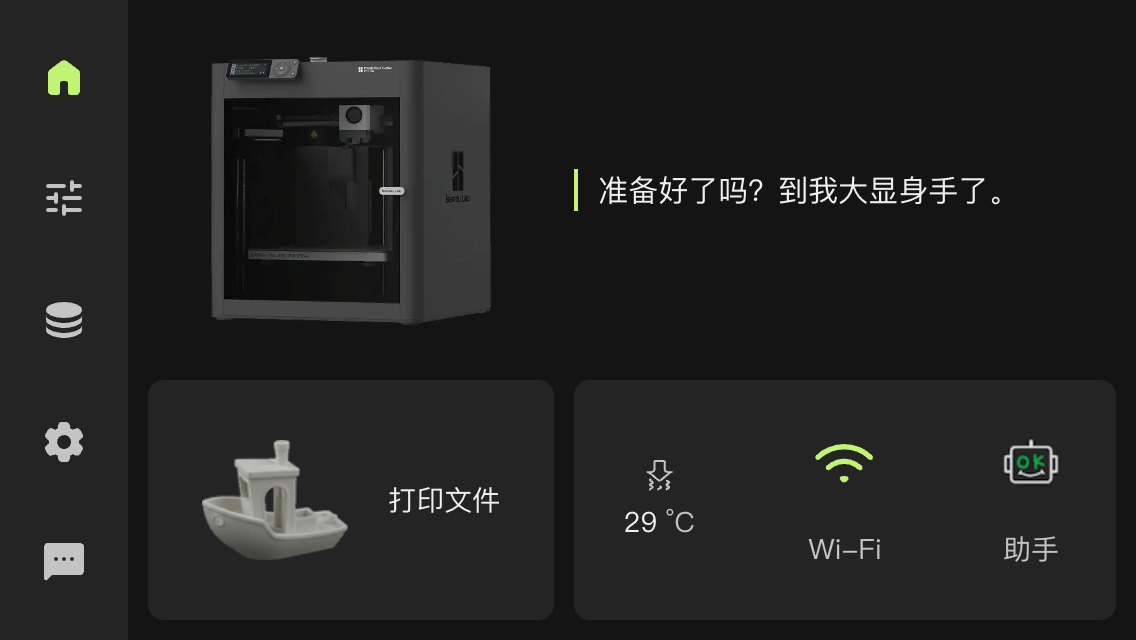
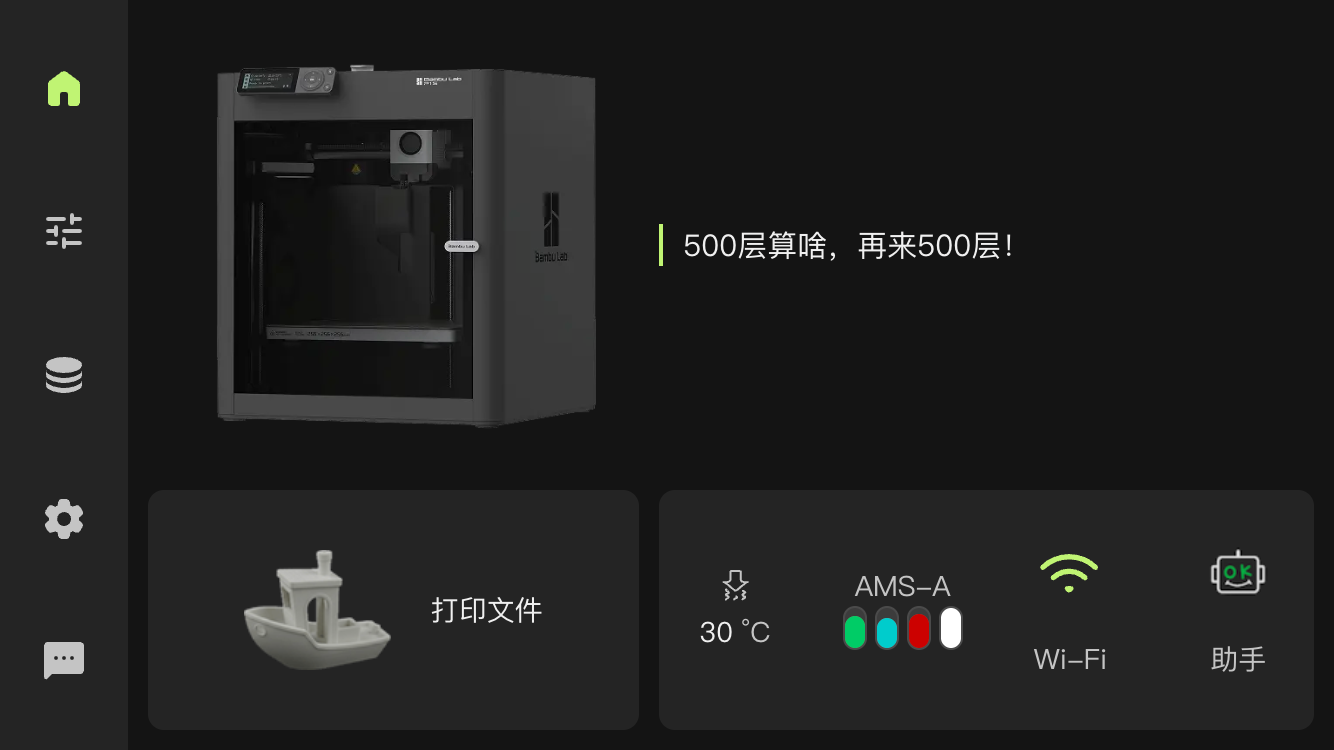
add ams indicator; add remaining bar

diff --git a/frontend/src/views/home/HomePage.vue b/frontend/src/views/home/HomePage.vue
@@ -15,17 +15,16 @@
           <span class="temp-unit">°C</span>
         </div>
       </div>
-      <!-- TODO: AMS -->
-      <!--
-      <div class="ams" v-if="device && device.ams.ams.length > 0" @click="router.push({ name: ROUTE_NAME.FILAMENT })">
-        <template v-for="ams in device.ams.ams" :key="ams.id">
+      <div v-if="device && device.ams.ams.length > 0" @click="router.push({ name: ROUTE_NAME.FILAMENT })">
+        <template v-for="ams in device.ams.ams.slice(0, 2)" :key="ams.id">
           AMS-{{ amsPrefix(ams.id) }}
-          <div>
-            
+          <div class="ams">
+            <div v-for="slot in ams.tray.length" :key="slot" class="slot">
+              <div :style="{ backgroundColor: ams.tray[slot - 1].tray_color.length > 0 ? `#${ams.tray[slot - 1].tray_color}` : undefined, height: ams.tray[slot - 1].remain !== -1 ? `${ams.tray[slot - 1].remain}%`: undefined }"></div>
+            </div>
           </div>
         </template>
       </div>
-      -->
       <div class="wifi-signal" @click="router.push({ name: ROUTE_NAME.SETTING_HOME })">
         <img :src="wifiIcon"/>
         <div>Wi-Fi</div>
@@ -105,6 +104,7 @@ import { useI18n } from 'vue-i18n'
 import { PrinterClient } from '../../api/PrinterClient'
 import { GcodeState, CurrentStage } from '../../api/enums'
 import { saveProject } from '../../utils/project'
+import { amsPrefix } from '../../utils/ams'
 import { hmsIcon, wifiSignalIcon } from '../../utils/icon'
 import { usePrinterStore } from '../../stores/printer'
 import hints from '../../assets/hints.json'
@@ -371,6 +371,28 @@ const handleStop = () => {
   width: 32px;
   height: 32px;
   margin-bottom: 12px;
+}
+.ams {
+  height: 24px;
+  display: flex;
+  flex-direction: row;
+  justify-content: center;
+  gap: 4px;
+}
+.ams .slot {
+  height: 22px;
+  width: 12px;
+  border-radius: 6px;
+  border: 1px solid var(--van-background-5);
+  background-color: var(--van-background-4);
+  overflow: hidden;
+  display: flex;
+  align-items: end;
+}
+.ams .slot > div {
+  width: 100%;
+  height: 100%;
+  border-radius: 6px;
 }
 
 /* running */

diff --git a/frontend/src/components/Tray.vue b/frontend/src/components/Tray.vue
@@ -10,6 +10,9 @@
   >
     <template #reference>
       <div class="tray" @click.stop="handleTrayClick">
+        <div class="remain" :style="{ visibility: isExt || props.tray.remain === -1 ? 'hidden' : 'visible' }">
+          <div :style="{ backgroundColor: bgColor, width: `${props.tray.remain}%` }"></div>
+        </div>
         <div class="filament" :style="{ '--tray-bg': bgColor }"></div>
         <span class="name" :style="{ color: textColor }">{{ name }}</span>
         <span class="material" :style="{ color: textColor }">{{ material }}</span>
@@ -118,6 +121,20 @@ const textColor = computed(() => {
   height: 64px;
   margin: 8px;
   margin-left: 6px;
+}
+.remain {
+  position: relative;
+  width: 24px;
+  height: 4px;
+  border-radius: 2px;
+  top: -6px;
+  margin: 0 12px;
+  background-color: var(--van-background-5);
+  overflow: hidden;
+}
+.remain > div {
+  height: 100%;
+  border-radius: 2px;
 }
 .filament {
   width: 48px;

diff --git a/frontend/src/stores/printer.ts b/frontend/src/stores/printer.ts
@@ -44,6 +44,18 @@ const handlePrintPushStatus = () => {
   //   temp: '20',
   //   tray: print.value!.ams.ams[0].tray,
   // }
+  // print.value!.ams.ams[0].tray[0].tray_color = '00CC66FF'
+  // print.value!.ams.ams[0].tray[0].tag_uid = 'xxx'
+  // print.value!.ams.ams[0].tray[0].remain = 80
+  // print.value!.ams.ams[0].tray[1].tray_color = '00CCCCFF'
+  // print.value!.ams.ams[0].tray[1].tag_uid = 'xxx'
+  // print.value!.ams.ams[0].tray[1].remain = 75
+  // print.value!.ams.ams[0].tray[2].tray_color = 'CC0000FF'
+  // print.value!.ams.ams[0].tray[2].tag_uid = 'xxx'
+  // print.value!.ams.ams[0].tray[2].remain = 85
+  // print.value!.ams.ams[0].tray[3].tray_color = 'FFFFFFFF'
+  // print.value!.ams.ams[0].tray[3].tag_uid = '0000000000000000'
+  // print.value!.ams.ams[0].tray[3].remain = -1
 }
 
 const handleProjectFile = (projectData: Project) => {

diff --git a/frontend/src/views/filament/FilamentPage.vue b/frontend/src/views/filament/FilamentPage.vue
@@ -12,7 +12,7 @@
     </div>
     <div v-if="device && currentAms" class="ams-card">
       <Tray
-        v-for="slot in 4"
+        v-for="slot in currentAms.tray.length"
         :key="slot"
         :name="`${amsPrefix(currentAms.id)}${slot}`"
         :amsId="Number(currentAms.id)"

diff --git a/frontend/src/api/device.ts b/frontend/src/api/device.ts
@@ -86,6 +86,7 @@ export type DeviceTray = {
   tray_color: string // rgba
   nozzle_temp_max: string
   nozzle_temp_min: string
+  remain: number // -1, 0~100
 }
 
 export type DeviceLight = {

diff --git a/README.zh.md b/README.zh.md
@@ -77,7 +77,8 @@ docker compose up -d
 - 首页
   - 文件列表
 - 其他
-  - 全局弹窗（打印成功/失败/警告）
+  - 全局弹窗（打印成功 / 失败 / 警告）
+  - AMS 2 / AMS HT 适配
 
 ## 参考内容
 - [P1 系列屏幕操作指南](https://wiki.bambulab.com/en/p1/manual/screen-operation)

diff --git a/README.md b/README.md
@@ -77,6 +77,7 @@ Any full-screen web launch method is acceptable. More ideas are welcome.
   - File list
 - Other
   - Global Dialog(Print Success / Failure / Warning)
+  - AMS 2 / AMS HT support
 
 ## References
 - [P1 Screen Operation Guide](https://wiki.bambulab.com/en/p1/manual/screen-operation)
